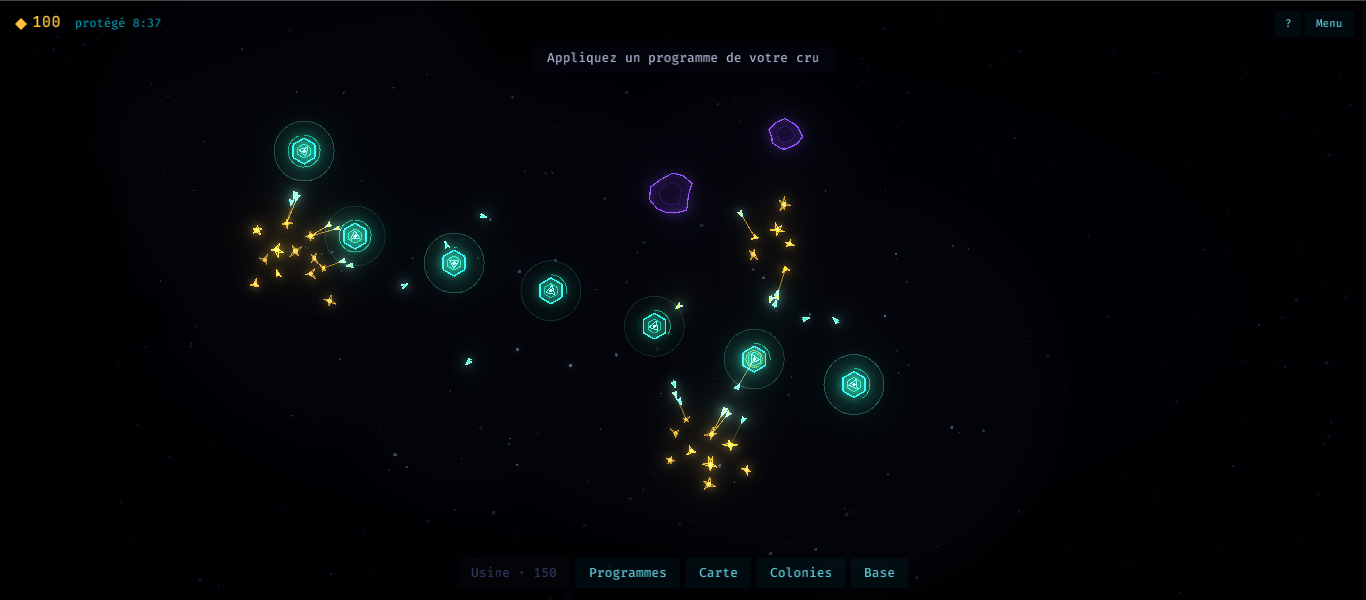
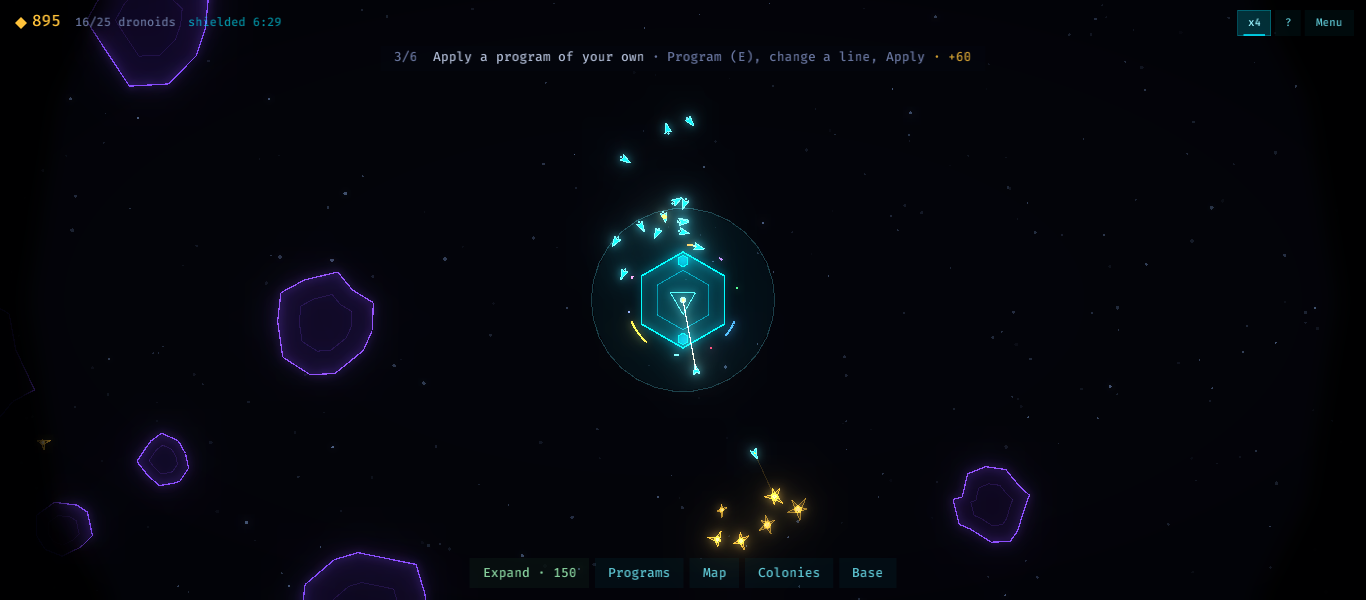
Dronoids: new clip and screenshot, of the central base
The game replaced its factories with one base; the landing page clip and
the README screenshot still showed factories. Recording notes updated.

diff --git a/docs/clips.md b/docs/clips.md
@@ -21,25 +21,27 @@ production servers or the shared Dronoids world.
 
 ## Dronoids
 
-In `~/repos/dronoids`, after `cargo build --release`. Offline sector, the first factory placed
-automatically, 40 minutes fast-forwarded, then scripted clicks build six more factories around
-it (the Factory button, then a spot), set the speed to x4 (two clicks on x1) and deselect (a
-click on empty space). Launch it from Git Bash: started by PowerShell's `Start-Process`, the
-game ignored the building clicks.
+Re-recorded on 2026-11-12 once Dronoids had one central base instead of factories (the first
+clip, with factories, is kept on the server as `dronoids.mp4.bak-factories` and
+`dronoids.webp.bak-factories`).
+
+In `~/repos/dronoids`, after `cargo build --release`. Offline sector, seed 3 (asteroids and
+crystal fields around the base), the base landed automatically with some of every perk
+(`--perks`), 2 minutes fast-forwarded, then scripted clicks set the speed to x4 (two clicks on
+x1) and deselect the base (a click on empty space). Launch it from Git Bash: started by
+PowerShell's `Start-Process`, the game ignored scripted clicks.
 
 ```bash
-C=""; f=30; for xy in 380,190 780,190 330,430 820,440 576,120 576,530; do C="$C --click 422,620@$f --click $xy@$((f+10))"; f=$((f+30)); done
-```
-
-```bash
-./target/release/dronoids.exe --offline normal --ais 6 --seed 7 --land --bonuses --ticks 2400 --size 1152,648 $C --click 1040,22@300 --click 1040,22@310 --click 1000,590@330 &
+./target/release/dronoids.exe --offline normal --ais 6 --seed 3 --land --perks --ticks 500 --zoom 16 --size 1152,648 --click 1040,22@30 --click 1040,22@40 --click 1000,590@60 &
 ```
 
 ```bash
 pwsh -NoProfile -File ~/repos/primo-ideas/tools/record-window.ps1 -Exe attach:dronoids -Out dronoids-raw.mp4 -Seconds 18 -Warmup 12
 ```
 
-`--screenshot out.png --after 25` instead of the recording shows the framing first.
+`--screenshot out.png --after 20` instead of the recording shows the framing first. The
+screenshot in this repo (`dronoids.png`, 1366x600) is the same run with `--size 1366,600`,
+the clicks at `1250,22` (twice) and `1200,560`, and `--screenshot dronoids.png --after 22`.
 
 ## Star Racer
 
@@ -78,8 +80,8 @@ starting lights come on (34.4 s into that recording) and runs through the launch
 
 `$F` is the ffmpeg path. The clip takes `L` seconds from `S`, and its last `D` seconds fade into
 its first frame, so the loop has no jump. Star Racer: `S=34.4 L=10 D=0.6`, scaled to 960x540,
-CRF 27. Dronoids: `S=1.0 L=10 D=0.8`, cropped to the colony (`crop=820:512:140:80`), scaled to
-800x500, CRF 25.
+CRF 27. Dronoids: `S=1.0 L=10 D=0.8`, cropped around the base (`crop=820:512:166:67`), scaled
+to 800x500, CRF 25.
 
 ```bash
 "$F" -y -i star-racer-raw.mp4 -filter_complex "[0:v]trim=start=34.4:duration=10.6,setpts=PTS-STARTPTS,scale=960:540:flags=lanczos,setsar=1,split[a][b];[a]trim=start=0.6,setpts=PTS-STARTPTS[m];[b]trim=duration=0.6,setpts=PTS-STARTPTS[h];[m][h]xfade=transition=fade:duration=0.6:offset=9.4,format=yuv420p[v]" -map "[v]" -an -c:v libx264 -profile:v high -preset slow -crf 27 -r 30 -movflags +faststart star-racer.mp4
